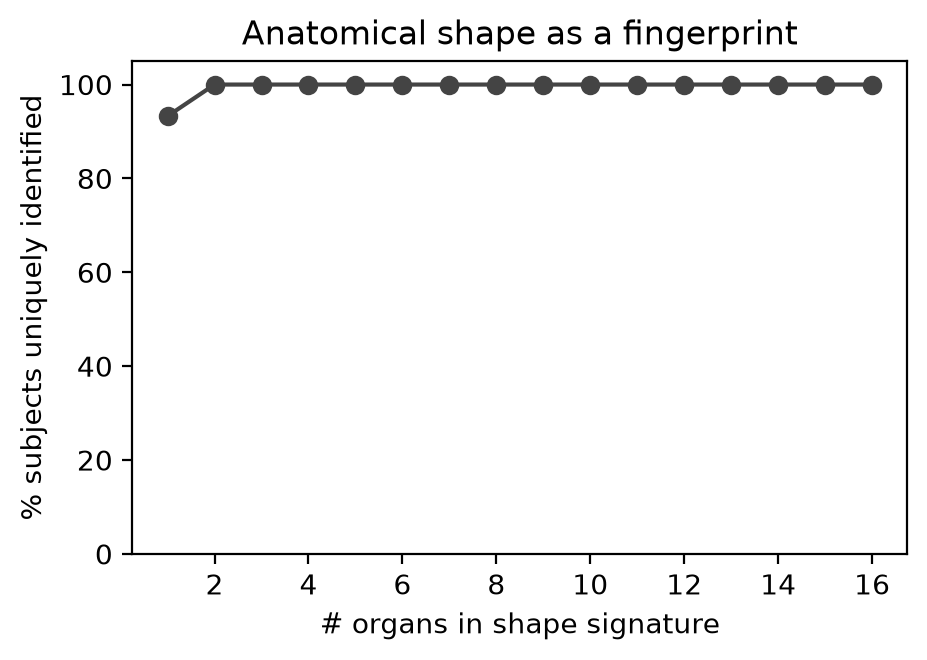
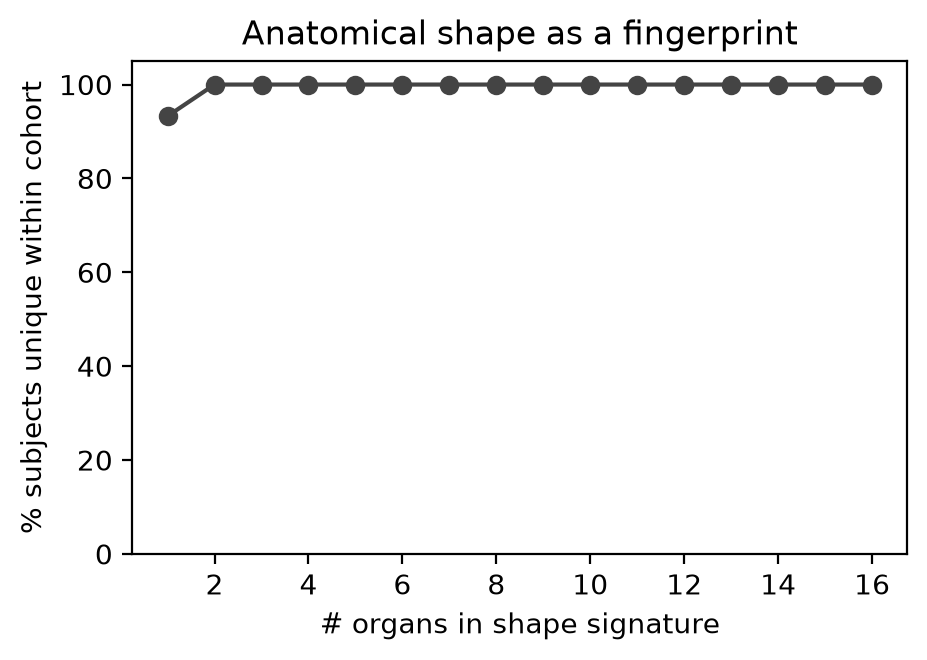
camera-ready: wording-safe uniqueness figure label, additional result macros, readme and citation updates

Changed region(s): [[0.0, 0.1212, 0.0604, 0.8182]]

diff --git a/shapedem/analysis/tables.py b/shapedem/analysis/tables.py
@@ -217,6 +217,13 @@ def make_tables(cfg, out_dir: str):
         macros += _macro("UniqBinsTwenty", _opt(lambda: f"{100*s.loc[20]:.0f}"))
     else:
         macros += _macro("UniqBinsThree", "n/a") + _macro("UniqBinsTwenty", "n/a")
+    _uqc = os.path.join(rdir, "uniqueness_curve.csv")
+    if os.path.exists(_uqc):
+        uc = pd.read_csv(_uqc).dropna()
+        macros += _macro("UniqNfirst", f"{int(uc.iloc[0]['n_subjects'])}")
+        macros += _macro("UniqNall", f"{int(uc.iloc[-1]['n_subjects'])}")
+    macros += _macro("NPerOrganMin", f"{int(attr['n'].min())}")
+    macros += _macro("NPerOrganMax", f"{int(attr['n'].max())}")
 
     # comparison-derived macros (n/a until `cli compare` is run)
     def _cm(name, row, key, fmt):

diff --git a/shapedem/analysis/figures.py b/shapedem/analysis/figures.py
@@ -53,7 +53,7 @@ def fig_uniqueness(rdir, outdir):
     df = pd.read_csv(os.path.join(rdir, "uniqueness_curve.csv")).dropna()
     fig, ax = plt.subplots(figsize=(5, 3.2))
     ax.plot(df["k_organs"], 100 * df["frac_unique"], "-o", color="#444")
-    ax.set_xlabel("# organs in shape signature"); ax.set_ylabel("% subjects uniquely identified")
+    ax.set_xlabel("# organs in shape signature"); ax.set_ylabel("% subjects unique within cohort")
     ax.set_ylim(0, 105); ax.set_title("Anatomical shape as a fingerprint")
     _save(fig, outdir, "uniqueness")
 

diff --git a/shapedem/crossmodal.py b/shapedem/crossmodal.py
@@ -140,6 +140,7 @@ def write_tables(cfg):
         f.write("\\bottomrule\n\\end{tabular}\n")
     macs = "".join([
         f"\\newcommand{{\\MRn}}{{{cm['n_mr']}}}\n",
+        f"\\newcommand{{\\MRnSex}}{{{cm['mr_sex_cv']['n']}}}\n",
         f"\\newcommand{{\\MRsexAUC}}{{{cm['mr_sex_cv']['auc']:.3f}}}\n",
         f"\\newcommand{{\\MRageMAE}}{{{cm['mr_age_cv']['mae']:.1f}}}\n",
         f"\\newcommand{{\\CTtoMRsex}}{{{cm['ct_to_mr_sex']['auc']:.3f}}}\n",

diff --git a/experiments/results_macros.tex b/experiments/results_macros.tex
@@ -57,6 +57,10 @@
 \newcommand{\LCsexAUCsmall}{0.758}
 \newcommand{\UniqBinsThree}{18}
 \newcommand{\UniqBinsTwenty}{99}
+\newcommand{\UniqNfirst}{669}
+\newcommand{\UniqNall}{177}
+\newcommand{\NPerOrganMin}{427}
+\newcommand{\NPerOrganMax}{669}
 \newcommand{\SSMSexAUC}{0.636}
 \newcommand{\SSMAgeMAE}{11.7}
 \newcommand{\DGCNNSexAUC}{n/a}

diff --git a/experiments/crossmodal_macros.tex b/experiments/crossmodal_macros.tex
@@ -1,5 +1,6 @@
 % AUTO-GENERATED
 \newcommand{\MRn}{240}
+\newcommand{\MRnSex}{196}
 \newcommand{\MRsexAUC}{0.762}
 \newcommand{\MRageMAE}{14.8}
 \newcommand{\CTtoMRsex}{0.708}

diff --git a/README.md b/README.md
@@ -12,7 +12,9 @@ Predicting demographic and clinical attributes from the 3D **shape** of anatomic
 > G. Luijten, B. Hinrichs-Puladi, M. Engelke, C. Wachinger, and J. Egger,
 > "What Does Anatomical Shape Know About You? A Multi-Organ, Shape-Only Study
 > of Demographic Prediction, Attribution, and Privacy,"
-> *under review at ShapeMI 2026*.
+> accepted at the ShapeMI workshop, MICCAI 2026 (proceedings to appear).
+
+The camera-ready PDF is in [`paper/`](paper/).
 
 ---
 
@@ -155,14 +157,14 @@ their outputs to build summary tables and plots.
 
 | Stage | What it does | Output | Time |
 |---|---|---|---|
-| `smoke` | Quick sanity check — downloads a few subjects via HTTP range requests, extracts shapes, runs a tiny CV. No full download needed. | `experiments/smoke_results.json` | ~2 min |
+| `smoke` | Quick sanity check — downloads a few subjects via HTTP range requests, extracts shapes, runs a tiny CV. No full download needed. | `experiments/smoke_results.json` (generated on run; not shipped) | ~2 min |
 | `meta` | Parses the TotalSegmentator metadata CSV (age, sex, pathology, institute) and caches it as a label table. | `experiments/totalseg_labels.csv` | seconds |
 | `analyze` | Trains and evaluates **classical models** (XGBoost, 5-fold stratified CV) for sex classification and age regression. Runs per-organ attribution, size-vs-shape decomposition, cross-domain transfer, uniqueness analysis, and multi-organ fusion. | `attribution.csv`, `size_vs_shape.csv`, `cross_domain.csv`, `uniqueness_curve.csv`, `fusion.json`, `organ_presence.csv` | ~5 min |
 | `intensity` | Extracts Hounsfield unit statistics (mean, std, percentiles) from the raw CT volumes for each organ, using 48 parallel workers. | `experiments/intensity_features.csv` | ~10 min |
 | `modality` | Compares shape-only vs intensity-only vs combined features for sex and age prediction. | `experiments/modality_comparison.csv` | ~1 min |
 | `stats` | Computes bootstrap 95% CIs on headline metrics (out-of-fold predictions), leave-one-institution-out generalization, institute demographics, uniqueness sensitivity to quantization, and truncation bias. | `headline_stats.json`, `loio.csv`, `institute_demographics.csv`, `uniqueness_sensitivity.csv`, `truncation_bias.csv` | ~5 min |
 | `labeling` | Auto-labeling viability: selective prediction (accuracy vs coverage trade-off), calibration (ECE), and data-efficiency learning curves. | `selective_sex.csv`, `calibration_sex.csv`, `learning_curve_sex.csv`, `learning_curve_age.csv`, `labeling_results.json` | ~3 min |
-| `deep` | Trains a multi-organ multi-task **PointNet** (or DGCNN with `--encoder dgcnn`) using the dataset's official train/val/test split. Validation-based early stopping, averaged over 3 seeds. Requires `pip install torch`. | `deep_results.json` or `deep_dgcnn_results.json` | ~30 min (GPU) |
+| `deep` | Trains a multi-organ multi-task **PointNet** (or DGCNN with `--encoder dgcnn`) using the dataset's official train/val/test split. Validation-based early stopping, averaged over 3 seeds; the reported runs used the CLI defaults, and early stopping determines the effective number of epochs. Requires `pip install torch`. Note: the DGCNN encoder here uses a static k-NN graph (a simplification of the original dynamic-graph method) and was not evaluated for the paper. | `deep_results.json` (shipped) or `deep_dgcnn_results.json` (not shipped) | ~30 min (GPU) |
 | `crossmodal` | Downloads TotalSegmentator-MRI (~2 GB), extracts MRI shapes, runs within-MRI CV and CT↔MRI cross-modality transfer. | `crossmodal_results.json`, `totalseg_mr_labels.csv` | ~15 min |
 | `compare` | Reads results from all prior stages and assembles a single comparison table (classical vs deep vs SSM vs volume-only baselines). | `experiments/comparison.csv` | ~5 min |
 | `figures` | Generates all plots (attribution bar charts, size-vs-shape, uniqueness curve, labeling, SSM modes) from the experiment CSVs. | `experiments/figures/*.png` and `.pdf` | seconds |

diff --git a/DISCLAIMER.md b/DISCLAIMER.md
@@ -9,4 +9,4 @@ Every cited reference was checked against its primary source before inclusion.
 No experimental number reported in the papers is hand-entered: each is produced by the committed code and written to files
 under `experiments/`, from which the figures and tables within the manuscript are generated.
 
-The study design is made explicitly by the authors alone without any form of help.
+The study design was developed by the authors alone.
